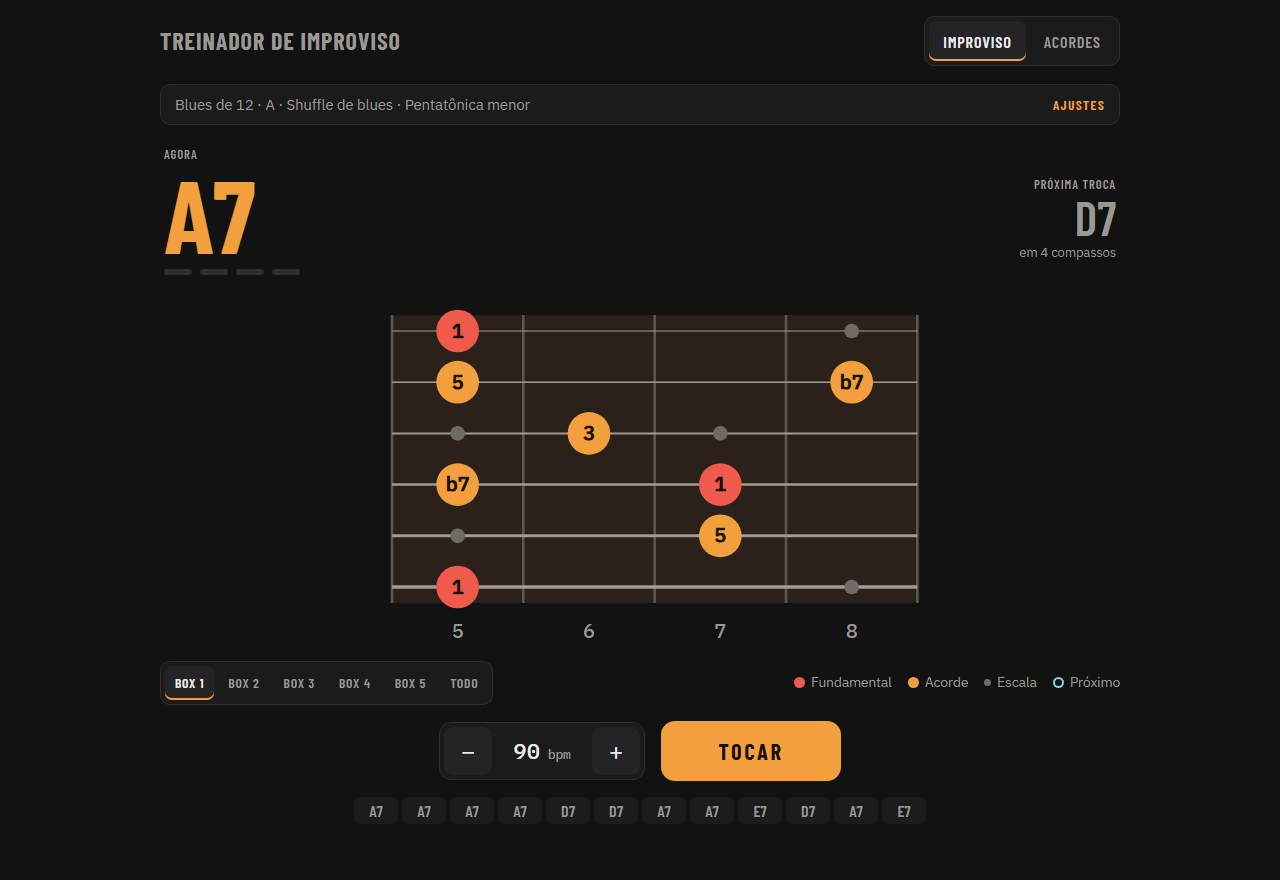
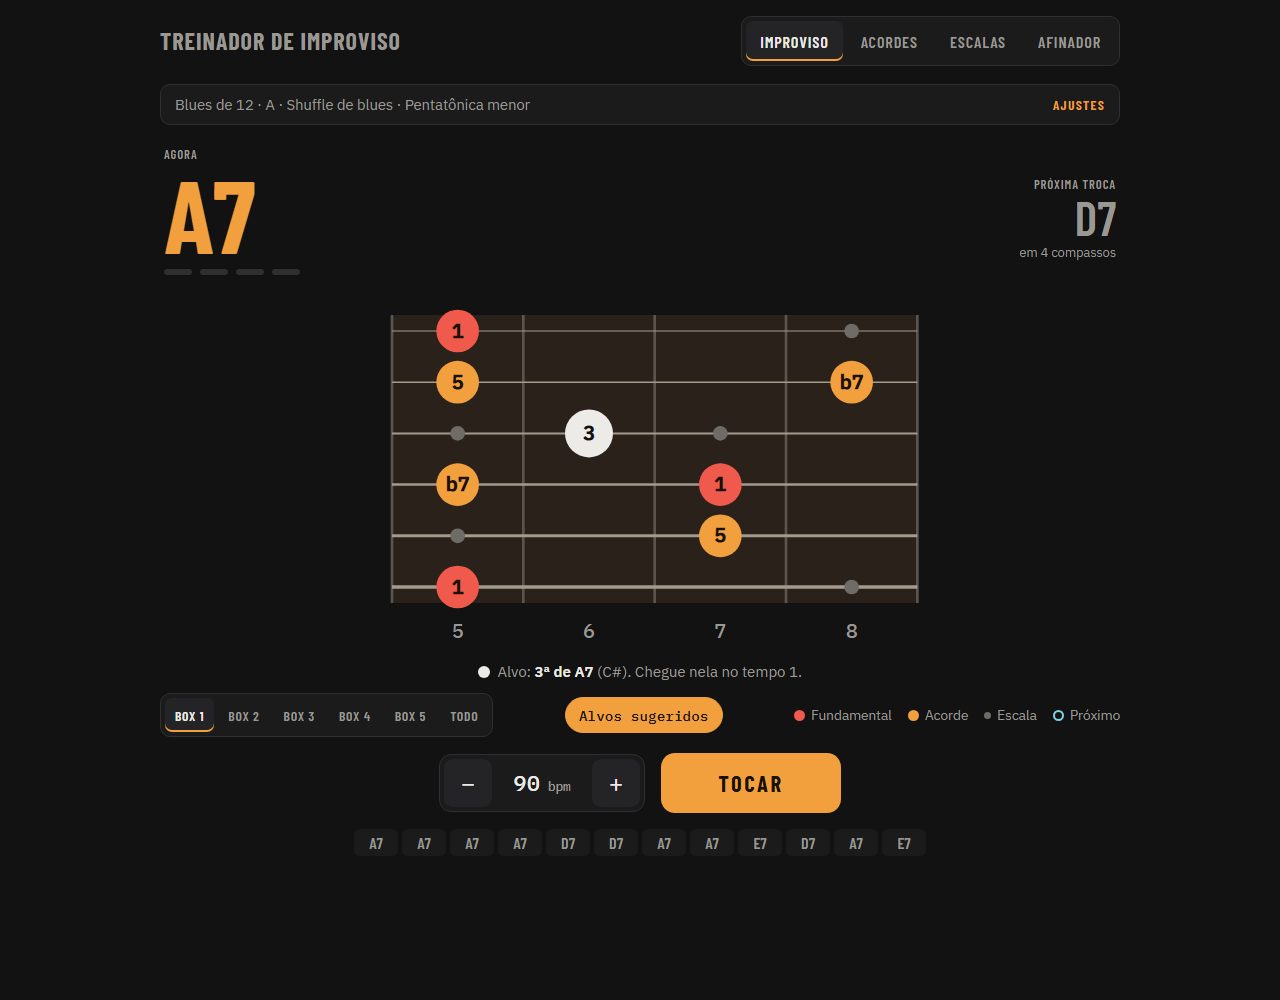
README atualizado (Jam livre, Afinador, ouvido de guitarra) e teste ponta a ponta
- Seções novas: Jam livre, Afinador/leitura de acordes, alvos sugeridos no Improviso
- Destaques técnicos do ouvido de guitarra (nota, acorde, estabilidade, tom, sugestões)
- Arquitetura, stack e roadmap atualizados; prints reais da Jam e do Afinador
- npm run e2e: Jam num navegador headless com microfone simulado (A7 D7 A7 E7 -> Lá maior)

diff --git a/src/features/jam/JamPage.tsx b/src/features/jam/JamPage.tsx
@@ -161,7 +161,7 @@ export function JamPage() {
             <div className="tag">O que você tocou</div>
             <button type="button" className="link" onClick={() => { setHistory([]); setLocked('auto') }}>limpar</button>
           </div>
-          <div className="bars">
+          <div className="bars jam-history">
             {history.slice(-16).map((h, i) => {
               const c = parseChord(h.symbol)
               return (

diff --git a/README.md b/README.md
@@ -11,13 +11,16 @@
 **Uma banda de apoio no navegador para guitarristas praticarem improviso, acordes e escalas.**
 A base toca com bateria, baixo, piano e violão de verdade (samples), e o braço da guitarra mostra,
 compasso a compasso, para onde mirar: a escala, as notas do acorde da vez e a próxima troca.
+Com a guitarra ligada (interface USB ou microfone), o app **ouve o que você toca**: afina, reconhece
+notas e acordes e, na Jam livre, sugere os próximos acordes e as notas-alvo em tempo real.
 
 ![Tela de improviso no desktop](docs/screenshots/improviso-desktop.png)
 
 > **In English:** a browser-based backing band and practice tool for guitarists. It plays
 > humanized, sample-based backing tracks (drums, bass, piano, acoustic guitar) and shows target
-> notes on an interactive fretboard in real time. Built with React, TypeScript and Tone.js; runs entirely
-> in the browser, no backend.
+> notes on an interactive fretboard in real time. It also listens to your guitar (USB interface or mic):
+> pitch and chord detection, key estimation and live next-chord suggestions. Built with React,
+> TypeScript and Tone.js; runs entirely in the browser, no backend.
 
 ---
 
@@ -29,6 +32,7 @@ por cima de uma base genérica do YouTube. Faltam três coisas:
 1. **Uma base que soe como banda** e não como metrônomo, no tom, andamento e estilo que você quiser.
 2. **Saber para onde mirar** em cada acorde, e não só que escala usar.
 3. **Treino deliberado** dos acordes e desenhos que você ainda erra.
+4. **Retorno sobre o que você tocou**, e não só sobre o que deveria tocar.
 
 ## O que o app faz
 
@@ -39,6 +43,9 @@ por cima de uma base genérica do YouTube. Faltam três coisas:
 - O braço mostra o desenho (box 1–5) em foco: a **fundamental** em vermelho, as **notas do acorde**
   em destaque com o grau (3, b7…) e a escala em pontos discretos. No tempo 4, brilham as notas do
   **próximo acorde**.
+- **Alvos sugeridos (notas-guia)**: a cada compasso, uma bolinha branca marca a 3ª ou a 7ª do acorde,
+  sempre a mais próxima do alvo anterior, formando uma linha suave (ex.: a 3ª de A7 desce meio tom
+  até a b7 de D7). Improvise livre e pouse no alvo no tempo 1.
 - Restrições sorteáveis para treino deliberado: "só box 2", "termine frases na 3ª",
   "só cordas 1 e 2"…
 - Mixer (bateria, baixo, piano, violão), contagem de entrada, loop, virada a cada 4 ou 8 compassos.
@@ -65,6 +72,26 @@ por cima de uma base genérica do YouTube. Faltam três coisas:
 - Exibição para memorizar: tudo, **só as tônicas** ou **esconder e revelar**.
 - **Onde está a nota?**: quiz clicando no braço ("onde está o Lá na 3ª corda?"), com repetição espaçada.
 - **Treinos salvos**: combinações favoritas viram o plano da semana.
+
+### Jam livre
+
+![Jam livre reconhecendo um blues em Lá](docs/screenshots/jam-livre.png)
+
+Você toca livre; o app escuta e acompanha:
+- **acorde que você está tocando** e a função dele no tom ("IV7 em Lá maior");
+- **tom estimado** a partir do que foi tocado; quando é ambíguo (ex.: Em–D–C–D), mostra o rival para você fixar;
+- **3 próximos acordes** que soam bem, com o desenho de cada um (clique para ver as notas no braço antes de trocar);
+- **alvo para improvisar** (3ª/7ª do acorde) perto da última nota que você tocou, e o anel de aonde ir se trocar;
+- histórico do que você tocou.
+
+### Afinador e leitura de acordes
+
+![Afinador no modo acorde](docs/screenshots/afinador-acorde.png)
+
+- **Afinador** com ponteiro em cents e a nota acesa em todas as posições do braço.
+- **Modo acorde**: o acorde soando, palpites alternativos e a energia de cada uma das 12 notas.
+- **Troca de acorde configurável**: rápida, equilibrada ou estável, e tempo mínimo entre trocas.
+- Medidor de nível com a faixa ideal, e a interface USB (ex.: Cube Baby) escolhida sozinha.
 
 ### No celular
 
@@ -99,6 +126,25 @@ fundamental no baixo, casas válidas e abertura tocável.
 **Desempenho.** Assinaturas seletivas no estado (Zustand) e SVG memoizado: a cada batida só os
 indicadores de tempo re-renderizam; o braço só redesenha na troca de acorde.
 
+**Ouvido de guitarra, sem servidor e sem IA pesada.** Tudo roda no navegador, em tempo real:
+
+| Etapa | Como |
+|---|---|
+| Nota | Método de McLeod (`pitchy`) limitado à faixa da guitarra, com **histerese**: clareza 0,9 para começar uma nota e 0,6 para mantê-la enquanto a corda perde força; mediana contra saltos de oitava |
+| Acorde | Espectro de 16 384 pontos → energia das 12 notas (picos com interpolação e **compressão**) → comparação com os moldes de 9 tipos × 12 fundamentais; power chord só sem 3ª |
+| Estabilidade | O acorde atual só é trocado por um claramente mais provável, depois de um tempo mínimo configurável; média móvel do espectro |
+| Tom | Perfis de **Krumhansl-Kessler** sobre os acordes tocados, com dica de tônica (o acorde que abre e o que mais repousa) |
+| Sugestões | Tabelas de transição de blues (I7–IV7–V7), tons maiores e menores, por grau no tom |
+
+Os parâmetros da leitura de acordes saíram de uma **busca sistemática** em 280 acordes sintéticos com
+volume aleatório por corda: a primeira versão acertava 43%; a final acerta 113 de 113 desenhos do banco
+e foi validada com guitarra real.
+
+**Teste ponta a ponta no navegador** (`npm run e2e`, em [`scripts/e2e-jam.mjs`](scripts/e2e-jam.mjs)).
+Um áudio de guitarra gerado (A7 → D7 → A7 → E7) é entregue ao Chrome/Edge headless como se fosse o
+microfone; via DevTools Protocol o script liga a entrada e confere que a Jam reconhece a sequência,
+estima Lá maior e sugere acordes do blues. Os prints da Jam e do Afinador acima saíram desse processo.
+
 ## Arquitetura
 
 ```mermaid
@@ -108,22 +154,28 @@ flowchart LR
     prog["progressions"]
     scales["scales<br/>desenhos 1–5"]
     voicings["voicings<br/>banco de acordes"]
+    ear["pitch · chroma · key<br/>ouvido"]
+    sug["guide · next-chords<br/>sugestões"]
   end
   subgraph audio["audio/"]
     engine["engine<br/>Transport, mixer, agendamento"]
     styles["styles/<br/>shuffle · rock · 12/8 · balada"]
     human["humanize"]
     drums["drums<br/>camadas + round robin"]
+    input["input<br/>captura da guitarra"]
   end
   subgraph features["features/"]
     imp["improviso"]
     ac["acordes<br/>quiz + Leitner"]
     es["escalas<br/>exercícios + quiz"]
+    jam["jam livre"]
+    af["afinador"]
   end
   subgraph ui["ui/"]
     fb["Fretboard"]
     cd["ChordDiagram"]
     mix["Mixer"]
+    ip["InputPanel"]
   end
   core --> audio
   core --> features
@@ -131,7 +183,13 @@ flowchart LR
   styles --> engine
   human --> engine
   drums --> engine
+  ear --> input
   engine --> imp
+  engine --> es
+  input --> jam
+  input --> af
+  sug --> jam
+  sug --> imp
   ui --> features
 ```
 
@@ -146,9 +204,11 @@ do quiz de acordes e de cifra rolando no tempo.
 | Interface | React 19, TypeScript (strict), Vite |
 | Áudio | Tone.js (Transport, Sampler, efeitos) |
 | Teoria musical | tonal |
+| Detecção de nota | pitchy (McLeod) + Web Audio `AnalyserNode` |
 | Estado | Zustand (com persistência local) |
-| Testes | Vitest (316 testes) + GitHub Actions |
+| Testes | Vitest (374 testes) + GitHub Actions |
 | Dados | Tudo local no navegador; sem backend |
+| Deploy | Vercel (publica a cada push em `main`) |
 
 ## Rodar localmente
 
@@ -157,6 +217,7 @@ npm install
 npm run dev        # desenvolvimento
 npm test           # testes
 npm run build      # versão final (depois: npm run preview)
+npm run e2e        # com o preview rodando: Jam livre num navegador headless com microfone simulado
 ```
 
 > No PowerShell do Windows, se o `npm` acusar "execução de scripts desabilitada", use `npm.cmd`
@@ -165,14 +226,15 @@ npm run build      # versão final (depois: npm run preview)
 ## Roadmap
 
 - [x] Motor de áudio com 4 estilos, mixer e humanização
-- [x] Improviso: braço com foco por desenho, próxima troca, restrições, progressão digitada
+- [x] Improviso: braço com foco por desenho, próxima troca, alvos sugeridos, restrições, progressão digitada
 - [x] Acordes: banco, decodificador, quizzes e repetição espaçada
 - [x] **Escalas**: desenhos 1–5, exercícios no metrônomo, quiz "onde está a nota" e treinos salvos
+- [x] **Entrada de áudio** (interface USB ou microfone): afinador, detecção de nota e de acorde
+- [x] **Jam livre** (primeira versão): acorde e tom detectados, próximos acordes e notas-alvo em tempo real
 - [ ] **Músicas**: colar uma cifra e virar base de treino, com grade de compassos editável
 - [ ] **Treino do dia + progresso**: sessão montada automaticamente e histórico de acertos
-- [ ] **Entrada de áudio** (guitarra via interface USB): afinador, detecção de nota, validação do quiz
-- [ ] **Jam livre**: detecta o que você toca e sugere próximos acordes e notas-alvo em tempo real
-      (cadeia de Markov sobre progressões de blues/rock e do seu repertório)
+- [ ] Jam livre aprendendo as transições com as músicas do seu repertório
+- [ ] Quiz cronometrado conferido pelo áudio (o app ouve se você tocou o acorde pedido)
 
 O planejamento detalhado e as decisões de projeto estão em [`CLAUDE.md`](CLAUDE.md).
 

diff --git a/CLAUDE.md b/CLAUDE.md
@@ -157,6 +157,9 @@ Cada fase deve terminar com o app rodando e utilizável para praticar.
 - Git: repositório privado github.com/depaula12/treinador-improviso (branch main). Ao fim de cada
   etapa que roda, fazer commit com mensagem em português descrevendo a etapa e `git push`, para o
   histórico mostrar a evolução do projeto. Autor usa o e-mail noreply do GitHub.
+- Teste ponta a ponta da Jam: `npm run e2e` (com `npm run preview` rodando, ou passando a URL de
+  produção). Gera áudio sintético, usa microfone falso do Chrome/Edge headless via DevTools Protocol.
+  Não roda no CI (precisa de navegador); rodar ao mexer em audio/input, core/chroma ou na Jam.
 - Antes de cada commit: `npm run typecheck` e `npm test` (Vitest, arquivos `*.test.ts` ao lado do
   código). O CI no GitHub Actions roda os dois + build a cada push. Lógica nova em core/, audio/styles
   ou quiz ganha teste. Ao mudar a UI, atualizar os prints em `docs/screenshots/` usados no README.
